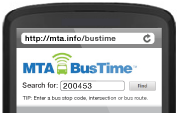
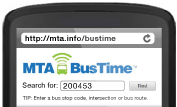
reducing height of wizard

diff --git a/onebusaway-nyc-webapp/src/main/webapp/css/map/wizard.css b/onebusaway-nyc-webapp/src/main/webapp/css/map/wizard.css
@@ -88,20 +88,20 @@
 
 #inner-col1 {
 	left: 10%;
-	margin-top: 8%;
+	margin-top: 8.5%;
 	width: 50%;
 	float: left;
 }
 
 #inner-col2 {
 	float: left;
-	margin-top: 8%;
+	margin-top: 8.5%;
 }
 
 /* wizard-col2 includes 'Also available using:' text */
 
 #wizard-col2 {
-	margin-top: 4%;
+	margin-top: 4.5%;
 	width: 7%;
 	text-align: left;
 	line-height: 150%;
@@ -119,7 +119,7 @@
 
 #wizard-col4 {
 	margin-left: 4.5%;
-	margin-top: 1.5%;
+	margin-top: 1.8%;
 	text-align: center;
 	cursor: pointer;
 }
@@ -130,14 +130,14 @@
 
 #smartphone_img {
 	background: url("img/wizard/smartphone.png") no-repeat;
-	height: 113px;
+	height: 107px;
 	width: 177px;
 }
 
 #sms_img {
 	background: url("img/wizard/sms_phone.png") no-repeat;
-	height: 112px;
-	width: 123px;
+	height: 103px;
+	width: 122px;
 }
 
 /* Close button */
@@ -169,7 +169,7 @@
 	opacity: 0.6; 
 }
 #wizard_start a.close .close_txt, #wizard_inuse a.close .close_txt, #wizard_finaltip a.close .close_txt  {
-	font-size: 14px;
+	font-size: 13px;
 	font-weight: normal;
 }
 

diff --git a/onebusaway-nyc-webapp/src/main/webapp/js/oba/map/Wizard.js b/onebusaway-nyc-webapp/src/main/webapp/js/oba/map/Wizard.js
@@ -53,7 +53,7 @@ OBA.Wizard = function(routeMap) {
 		wizard.css("height", wizard_height);
 		wizard.css("top", theWindow.height() - wizard_height);
 	}
-	reviseHeight(142);
+	reviseHeight(135);
 	
 	// 1. Launch wizard on click
 	
